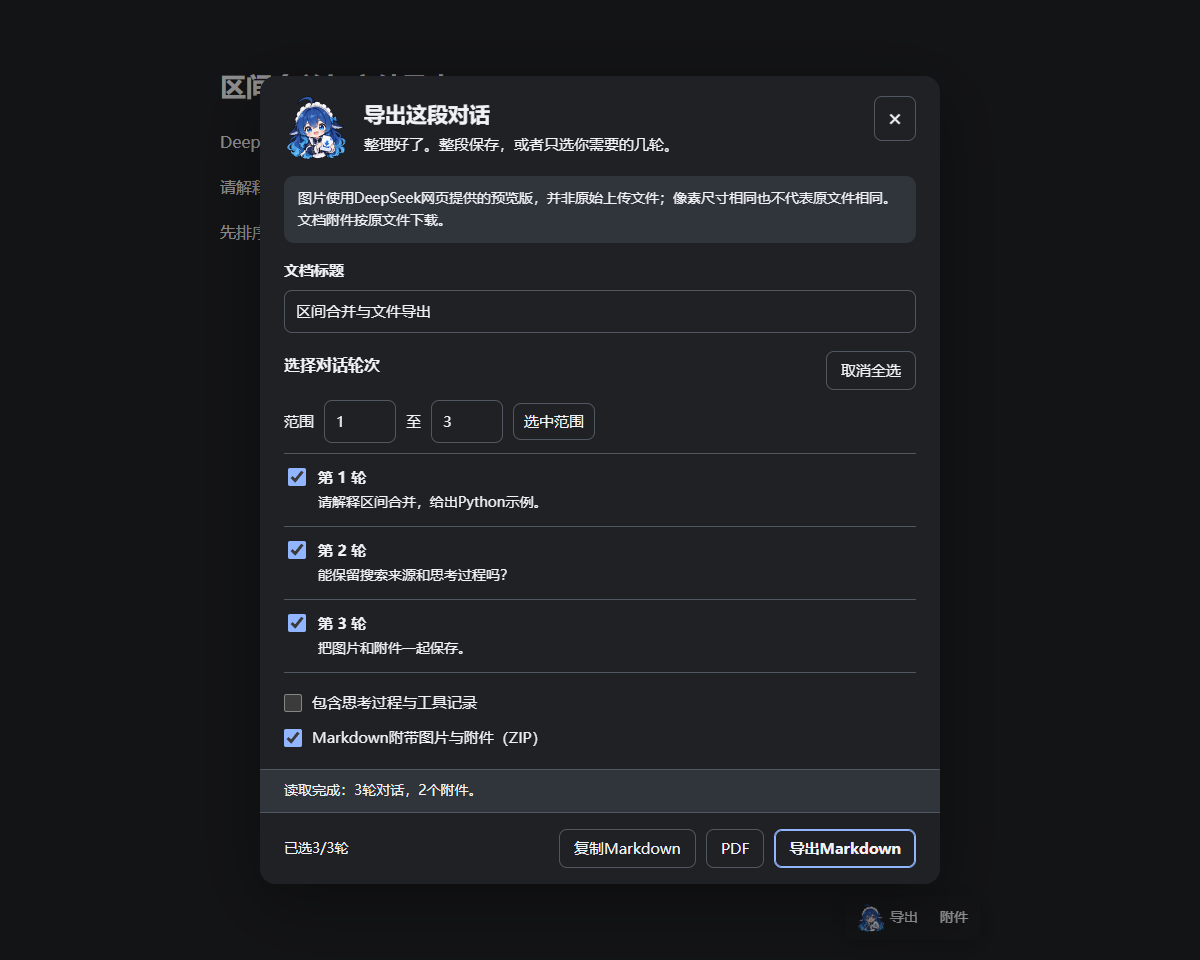
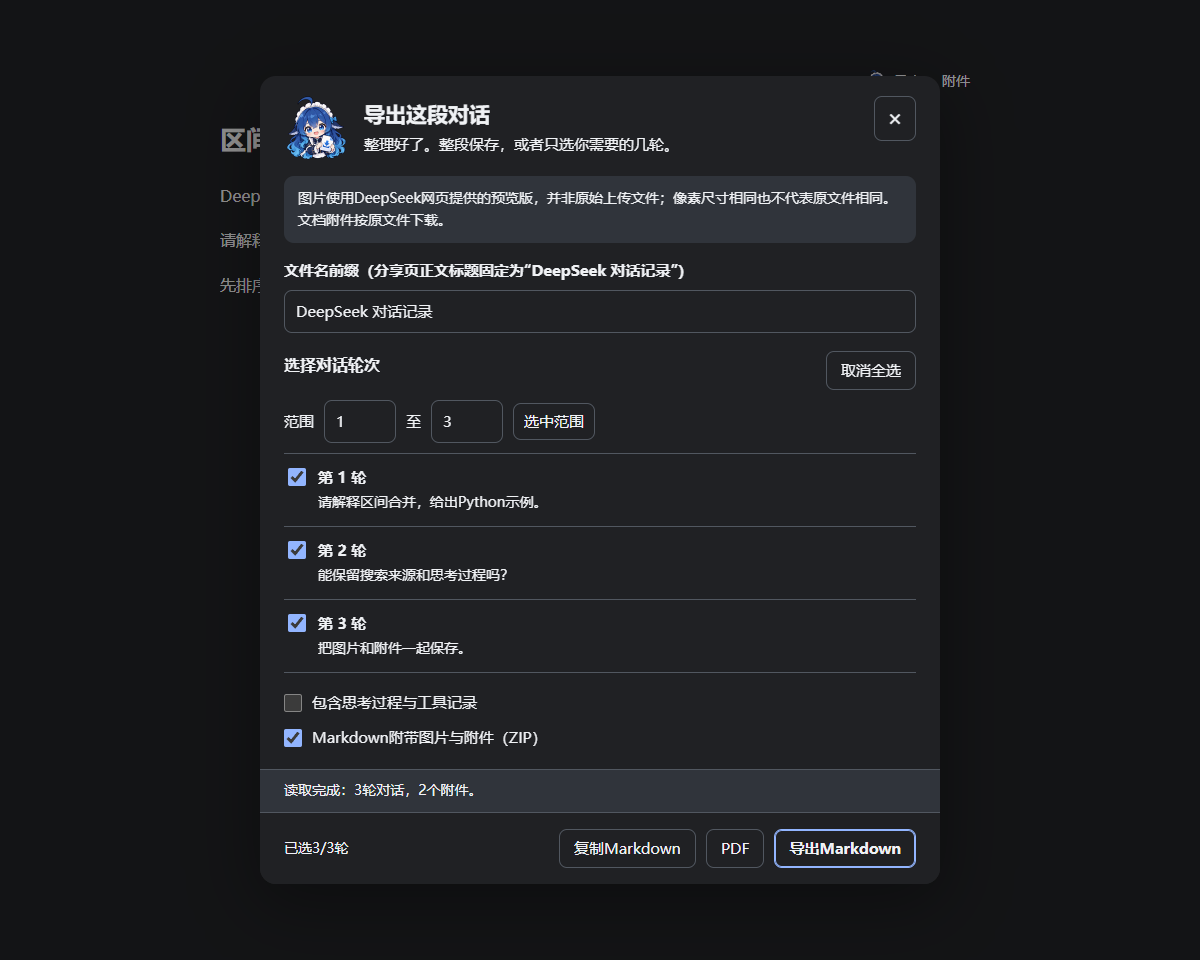
Explain v2.1.1 installation, exports and validation with screenshots

diff --git a/docs/DEVELOPMENT.md b/docs/DEVELOPMENT.md
@@ -23,7 +23,9 @@
 
 滚动读取先比较首尾挂载的节点、消息标识与内容。确认全部消息已经挂载时直接结束，否则继续逐屏读取虚拟列表。每个阶段都有实际进度，结束或取消后恢复滚动位置。
 
-`exportBundle.js`下载并缓存选中轮次的附件，把图片链接改为相对路径或PDF内嵌数据。相同URL复用一次读取结果，二进制文件避免重复压缩。附件窗口复用同一打包流程，一次选择只产生一个ZIP下载；同名文件加序号，失败项进入清单。失败文件进入清单和文档提示，不以空文件表示成功。`background/index.js`负责允许来源检查、跨域附件读取、PDF临时存储。
+`exportBundle.js`下载并缓存选中轮次的附件，把图片链接改为相对路径或PDF内嵌数据。相同URL复用一次读取结果，二进制文件避免重复压缩。附件窗口选1个时直接保存原始字节，选多个时复用打包流程，只产生一个ZIP下载；同名文件加序号，失败项进入清单。两种下载共用大小、图片类型和取消检查；失败不会伪装成空文件，真正的零字节文件则允许保存。长文件名保留扩展名。`background/index.js`负责允许来源检查、跨域附件读取、PDF临时存储。
+
+share正文标题统一为“DeepSeek 对话记录”，chat保留可编辑标题；`conversation.js`根据会话URL区分，不依赖是否成功读取分享接口。导出时才为下载名称附加本地时间，避免把时间写进正文。PDF预览的`document.title`提供带时间的建议保存名，最终文件名仍由浏览器打印窗口决定。
 
 `print/`是独立扩展页。Marked解析Markdown，DOMPurify清理HTML，KaTeX使用随包附带的字体，浏览器负责分页和保存PDF。打印代码和字体不进入聊天页的主脚本。
 
@@ -31,7 +33,7 @@
 
 Node.js24下执行`npm ci`、`npm test`、`npm run build`。构建使用esbuild，分别打包内容脚本、历史观察脚本、后台和打印页；只复制需要的资源，避免把整个源码目录再次放入安装包。
 
-`npm run test:browser`使用Playwright的独立临时配置加载真实扩展，测试页面和网络响应使用可复现数据。首次运行先执行`npx playwright install chromium`，或设置`DSX_TEST_BROWSER`。
+`npm run test:browser`使用Playwright的独立临时配置加载真实扩展，测试页面和网络响应使用可复现数据，并运行控件布局回归。首次运行先执行`npx playwright install chromium`，或设置`DSX_TEST_BROWSER`。单独检查布局可执行`npm run test:layout`，覆盖chat/share、深浅色和4种窗口宽度，以及缩放、刷新。
 
 开发时修改代码后重新构建，在浏览器扩展管理页点击重新加载，再刷新DeepSeek。内容脚本和后台版本不一致时，旧页面可能继续使用旧代码，因此不能只刷新扩展而不刷新页面。
 
@@ -65,7 +67,7 @@ GitHub自动提供的Source code是源码压缩包，不能直接当扩展加载
 
 小肥鱼作为图标和整理文件时的提示角色。保留蓝发、白色头饰等识别特征，避免夸张动画。导出窗口先显示标题与进度，完成后显示轮次、格式、附件选项。选择文字至少15px，键盘可操作，窄屏可滚动。加载状态只显示真实步骤，不伪造百分比。
 
-默认不包含思考和工具；需要时由用户勾选。工具随对应思考段展示，不创建独立的工具章节。导出按钮优先放在当前可见输入区，页面稍后加载输入区时自动重新定位；没有输入区时与对话列右侧对齐。
+默认不包含思考和工具；需要时由用户勾选。工具随对应思考段展示，不创建独立的工具章节。导出按钮优先放在当前可见输入区的横向控件行，检查兄弟元素、间距及可用宽高，不直接插入发送按钮的窄包装层；空间不足时放在输入框内的独立一行，不改宿主样式。页面稍后加载输入区或窗口缩放时重新定位；没有输入区时放在对话内容顶部。
 
 ## 反馈与修改
 

diff --git a/docs/VALIDATION.md b/docs/VALIDATION.md
@@ -1,8 +1,26 @@
-# 2.1.0验证记录
+# 验证记录
+
+## 2.1.1
+
+验证日期：2026-10-23。使用独立Playwright Chromium加载实际构建的2.1.1扩展。
+
+| 检查 | 结果 |
+| --- | --- |
+| 单元测试 | 39项通过；新增固定分享标题、秒级文件名、单文件原始字节、空文件、扩展名、错误与取消检查 |
+| 输入区问题复现 | 旧版在40px发送按钮包装层中插入工具栏，挤动发送按钮；早期浮动回退又与下降按钮重叠。现在宽窗口保留控件行布局，窄窗口在输入框内预留独立一行 |
+| 布局回归 | chat/share、浅色/深色、1200/983/600/390px、36/40px原生按钮共32组；检查上传按钮左侧定位、独立行、不遮挡并实际点击下降按钮，另检查窗口缩放与刷新 |
+| 单文件与多文件 | 单个MD、单张预览图直接下载，多选只下载一个ZIP；字节不符时只显示错误，不生成文件；未选文件时禁用下载 |
+| 分享标题与名称 | Markdown和PDF的主标题固定；自定义前缀只影响下载名称；chat保留对话标题；MD/ZIP下载名及PDF预览标题包含秒级时间 |
+| 真实分享回放 | 原6轮、7附件数据回放；ZIP与7次单文件下载逐字节一致，覆盖PDF、PPTX、DOCX、MD、HTML及2张预览图 |
+| PDF | 仅正文11页、含思考20页，各2张图片；全页文本边界检查通过，首页经Poppler渲染检查，主标题正常 |
+
+布局测试按问题截图复现发送按钮窄包装层，没有直接操作当前登录账号的chat。真实分享测试为此前捕获数据的本地回放，不代表当前线上页面所有灰度结构都已验证。PDF预览标题用于提供建议文件名，系统打印窗口的实际保存名称可由用户修改。
+
+## 2.1.0已发布版本
 
 验证日期：2026-10-23。Windows、Node.js24.18.0、Playwright Chromium，使用独立临时配置加载实际构建的扩展。
 
-## 实际运行结果
+### 实际运行结果
 
 | 检查 | 结果 |
 | --- | --- |
@@ -22,7 +40,7 @@
 
 浏览器测试在真正加载的扩展中执行，但页面、React对象和网络响应由匿名测试样例提供。真实分享数据使用本地捕获回放。两者可以重复验证提取和导出流程，**不等于已在当前登录账号的chat界面实测**。
 
-## 导出样例对比
+### 导出样例对比
 
 对同一段6轮对话的已有导出进行比较：chat保留2段搜索，没有打开网页记录；share保留2段搜索和8段打开网页记录。两份ZIP中的7个附件内容一致，因此附件逐个下载被取消，与对话ZIP保存的文件内容是两个问题。
 
@@ -38,7 +56,7 @@
 - 完整消息和分组快照保留可确认的原顺序，DOM回退按可确认的位置排列。页面未返回、已删除或无法展开的内容不能恢复。
 - 工具分组可以保留多个网页来源，但不一定能恢复每个并发调用的内部顺序。
 - 图片可能只有网页预览版；远程图片可能受跨域限制，附件链接可能过期。单附件40MB、附件合计100MB、PDF内嵌图片合计5MB。
-- 附件窗口显示ZIP生成和失败项统计；文件最终是否保存，以浏览器下载列表为准。
+- 附件窗口显示单文件请求或ZIP生成和失败项统计；文件最终是否保存，以浏览器下载列表为准。
 - 没有做跨账号或超长对话的统一速度基准，不使用“速度提升几倍”等未测量结论。
 
 代码及本地运行方式见[开发说明](DEVELOPMENT.md)。

diff --git a/docs/RELEASE-NOTES.md b/docs/RELEASE-NOTES.md
@@ -1,16 +1,13 @@
-# DeepSeek Export Plus 2.1.0
+# DeepSeek Export Plus 2.1.1
 
 适用于Chrome、Edge等Chromium桌面浏览器的DeepSeek网页对话导出插件，支持chat和share。基于[sati0121/DeepSeek-Exporter](https://github.com/sati0121/DeepSeek-Exporter)独立维护，保留原作者署名及MIT许可。
 
-这一版主要处理chat工具缺失、工具顺序、长对话读取和附件下载：
+- 修复导出工具栏挤动发送按钮、挡住网页下降按钮的问题。宽窗口放在上传按钮左侧，窄窗口放在输入框内的独立一行，缩放后重新定位；没有输入区时使用对话顶部工具栏。
+- share正文统一使用“DeepSeek 对话记录”，文件名前缀可单独修改。chat保留可编辑标题。
+- 对话MD、ZIP、PDF建议保存名及附件ZIP加入本地导出时间，精确到秒，方便区分重复导出。
+- 附件窗口选1个直接下载，选多个打包为一个ZIP；单文件失败直接提示原因，不生成空壳压缩包。
+- 修复过长附件名丢失扩展名、合法空文件被拒绝的问题。思考仍默认关闭，图片仍明确标记为网页预览版。
 
-- 思考默认关闭，勾选后才补读思考和工具；Markdown、复制和PDF使用同一个选项。
-- 补充分散存储的搜索及打开网页分组，按可确认的位置插在思考之间；保留仅正文导出时可取得的来源。
-- 已全部挂载的消息不再逐屏重复扫描，长对话进度显示当前阶段。
-- 刷新或输入区稍后加载时重新定位按钮，没有输入区时优先与正文列对齐。
-- 所选附件合为一个ZIP，只发起一次下载；失败项写入清单，成功项照常保存。移除废弃逐文件下载及下载记录权限。
-- 修正历史替换响应残留旧消息的问题，整理说明文档、版本来源和界面截图。
+本地安装可解压`DeepSeek-Export-Plus-2.1.1.zip`，在Chrome或Edge扩展管理页加载直接含有`manifest.json`的目录；也可执行`npm ci`、`npm run build`后加载`dist`。更新时先重新加载扩展，再刷新DeepSeek页面。要求Chromium120及以上。
 
-下载`DeepSeek-Export-Plus-2.1.0.zip`并解压，在Chrome或Edge扩展管理页开启开发者模式，加载直接含有`manifest.json`的目录，再刷新DeepSeek。已安装用户先重新加载扩展，再刷新对话页。要求Chromium120及以上；本地编译执行`npm ci`、`npm run build`后加载`dist`。
-
-35项单元测试、隔离浏览器集成、6轮真实分享数据及7个附件回放通过。仅正文与含思考PDF均检查了页面和图片。当前登录chat账号未直接实测，未返回的工具内容仍无法恢复，详见[验证记录](https://github.com/xiaohei07/DeepSeek-Export-Plus/blob/v2.1.0/docs/VALIDATION.md)。
+验证覆盖39项单元测试、32组布局组合、实际扩展浏览器集成，以及6轮真实分享捕获与7附件回放。单个附件及ZIP的内容均逐字节一致，PDF正文标题、图片和文本边界通过检查。当前登录chat账号未直接实测，网页未返回的工具内容仍无法恢复。详细范围见[验证记录](https://github.com/xiaohei07/DeepSeek-Export-Plus/blob/main/docs/VALIDATION.md)。

diff --git a/CHANGELOG.md b/CHANGELOG.md
@@ -1,5 +1,14 @@
 # 更新记录
 
+## 2.1.1
+
+- 修复导出按钮插入发送按钮的窄容器后导致换行的问题。只在有足够宽高的横向控件行内放置，空间不足时移到输入框内的独立一行，窗口缩放后重新定位。
+- 取消输入框上方的浮动回退，避免挡住原网页的下降按钮；优先放在上传按钮左侧，没有输入区时使用对话顶部的独立工具栏。
+- share的Markdown、复制内容和PDF正文标题固定为“DeepSeek 对话记录”，不再把长提示词作为主标题；文件名前缀可单独修改。chat保留原有可编辑标题。
+- 对话MD、ZIP、PDF建议名称及附件ZIP加入本地导出时间，精确到秒。单独下载的附件保留文件名。
+- 附件窗口选1个直接下载，选多个打包ZIP；单文件失败只显示原因，不生成空壳压缩包。
+- 修正长附件名截断后丢失扩展名、合法空文件被当作无效数据的问题；保留图片预览标记和真实格式扩展名。
+
 ## 2.1.0
 
 - 默认不导出思考过程。打开窗口只读取正文，勾选“包含思考过程与工具记录”后才补读，Markdown、复制和PDF共用这一选择。
